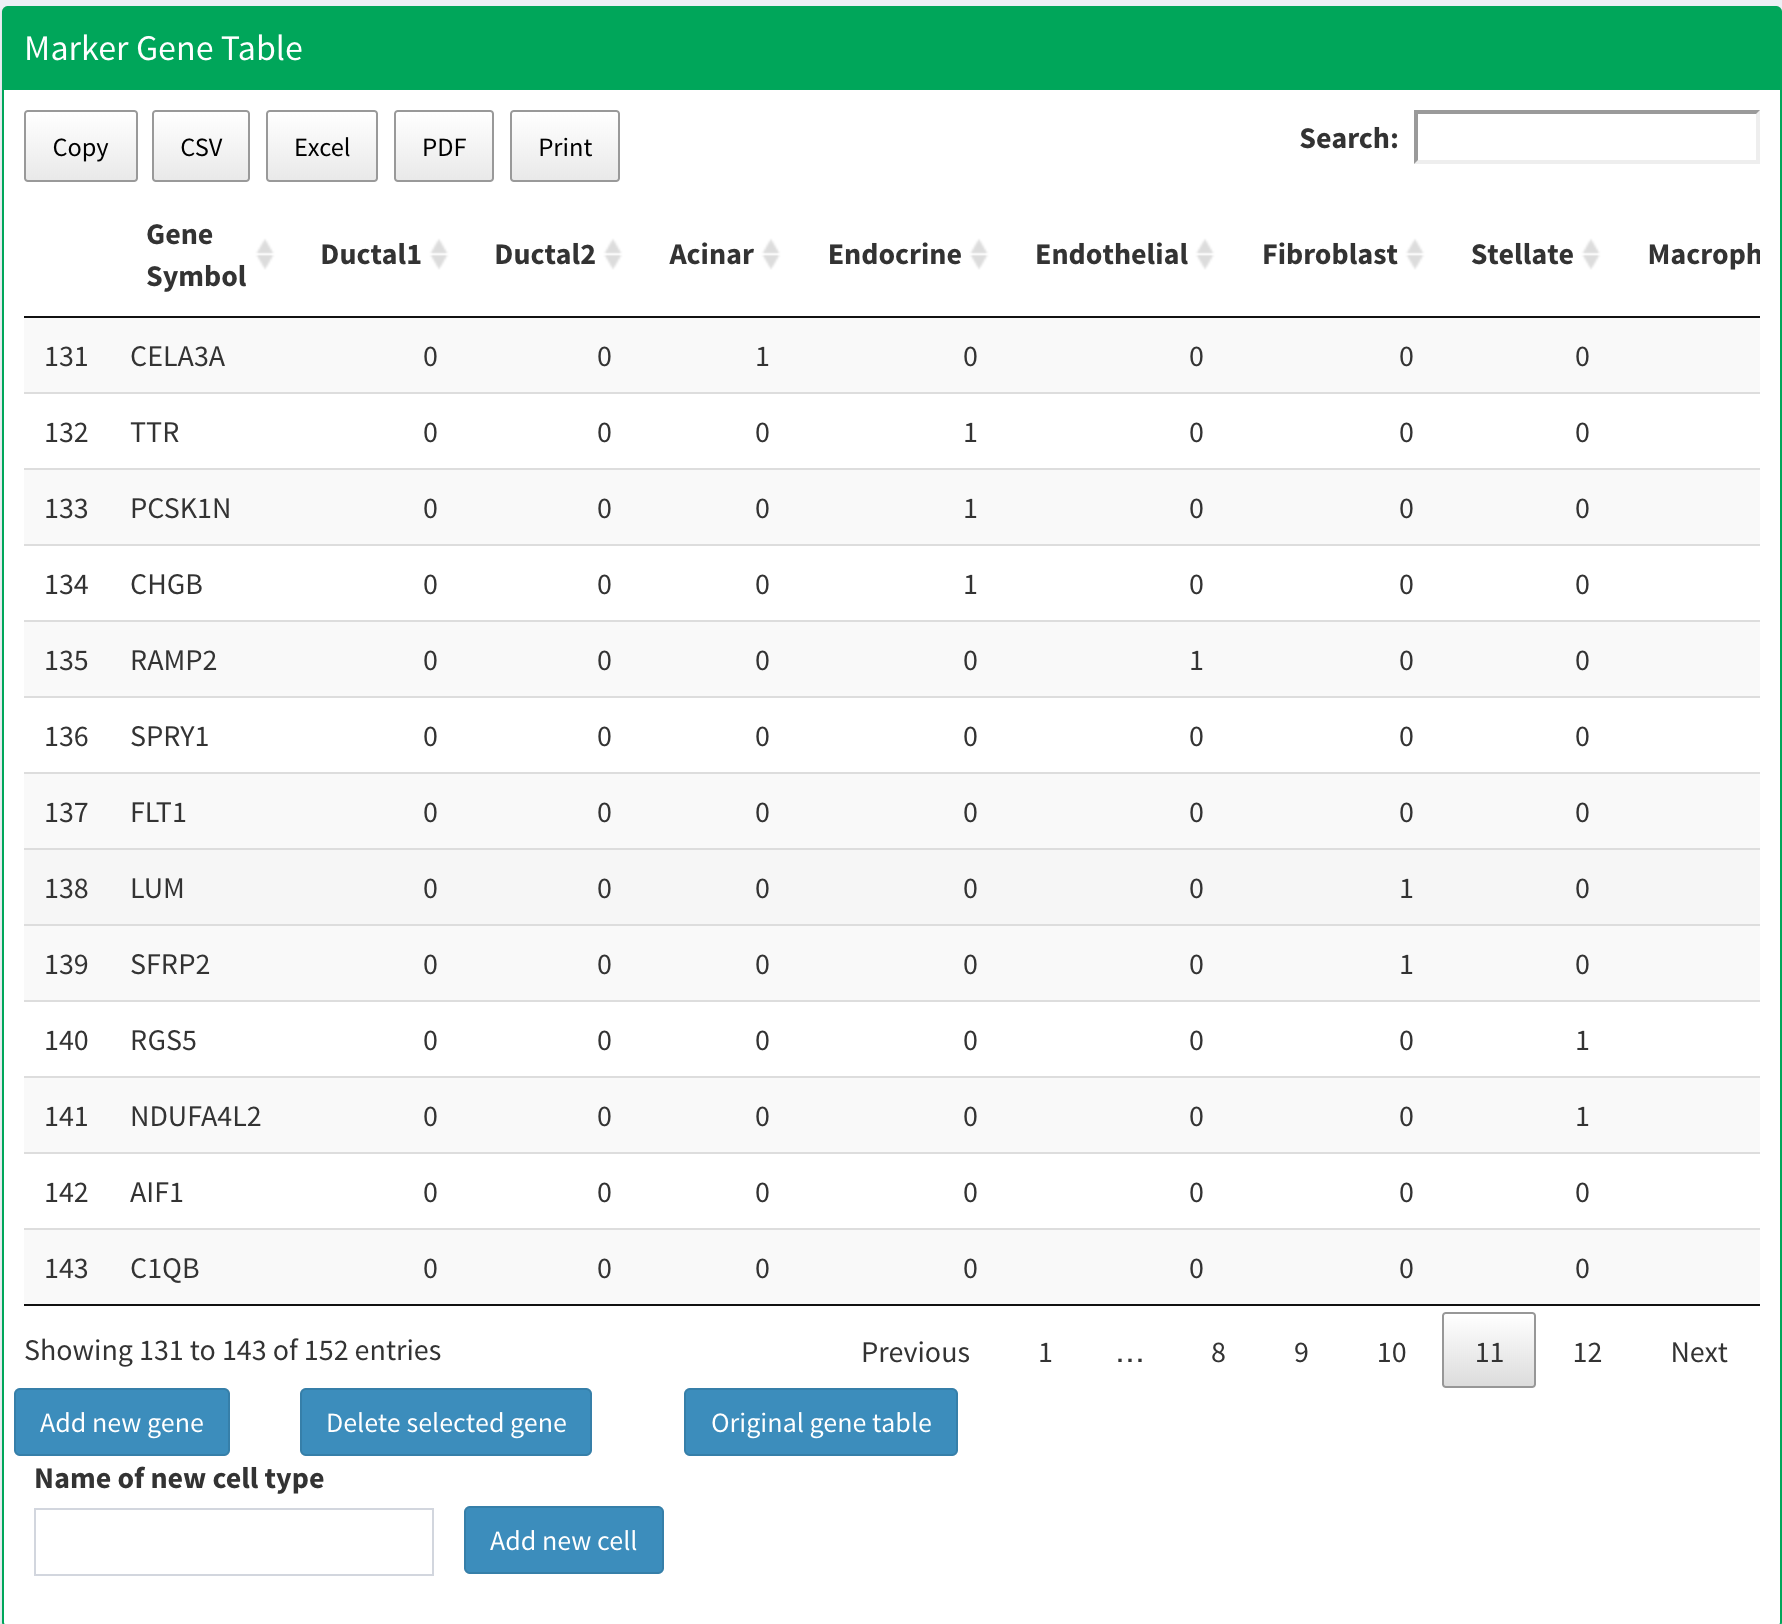
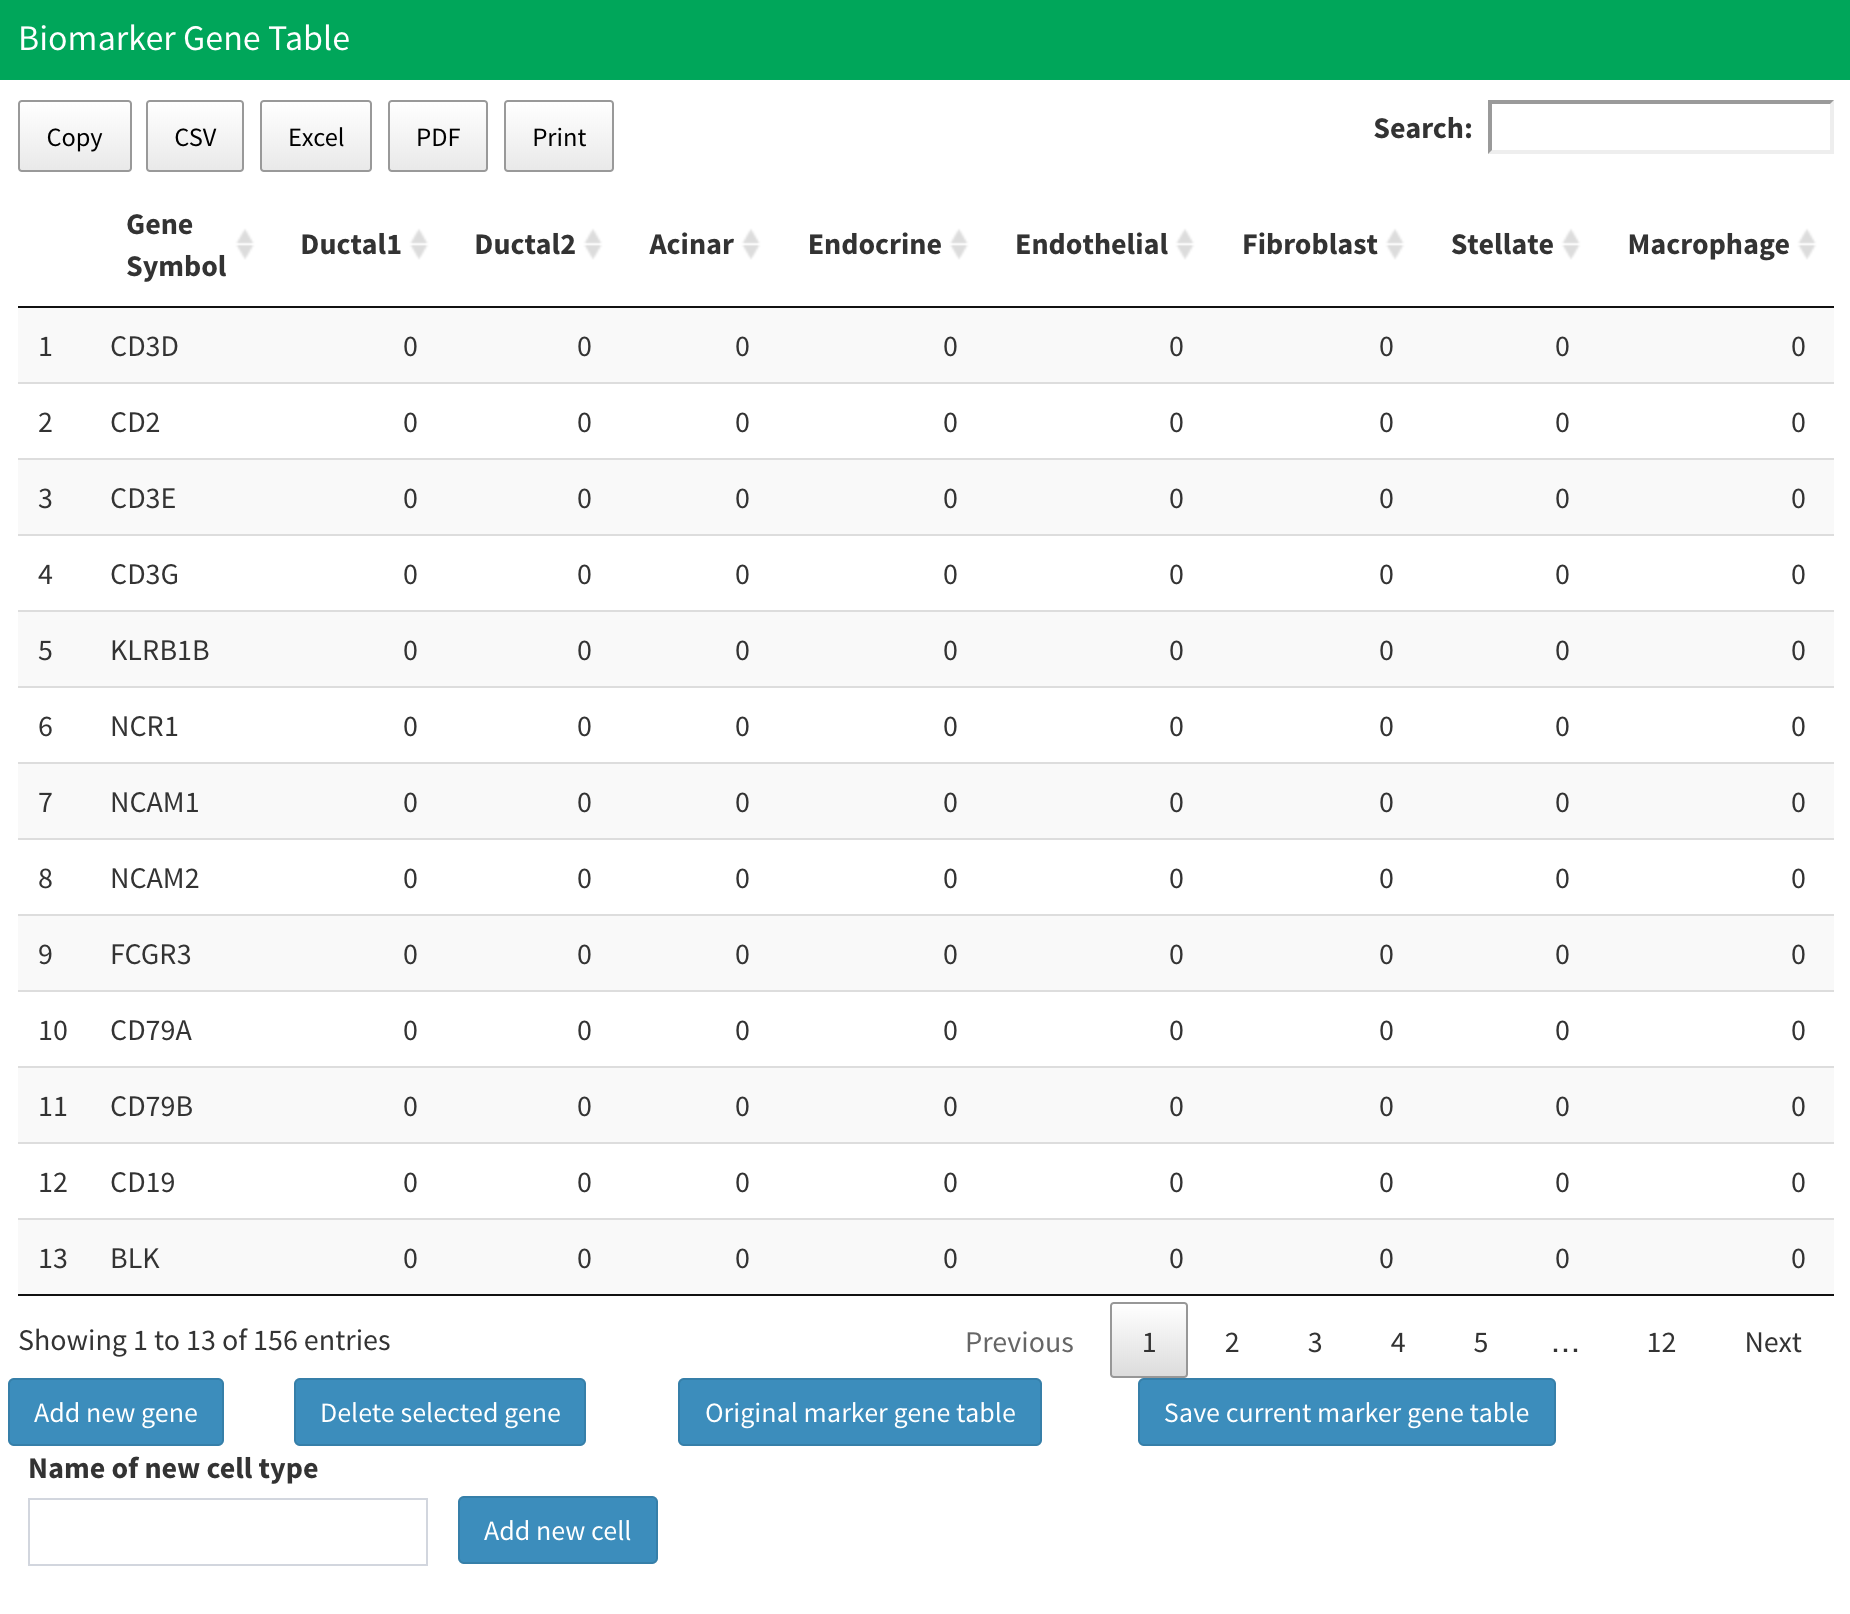
update

diff --git a/biomarkerGene.md b/biomarkerGene.md
@@ -22,3 +22,5 @@ You can see the detailed gene list for cell type by clicking the bubble in the p
 
 Each column represents a cell type and each row represents a gene. If the value is 1, this gene is a marker of this cell type. Meanwhile, if you have your own marker gene, you can click the blue button "Add new gene" to add a new marker gene. Once you click the button, you can find the new row in the last page with the gene symbol as "newGene", you can then edit the name and change the value from 0 to 1 in the corresponding cell type in the table directly. If you want to add a new cell type, you need to first enter the name of cell type in the text input frame and then click the button "Add new cell". Then you can scroll to the right of table and find your new cell type column. Notice that currently we don't support reloading edited marker gene information, which means if you want use your own data, you need add it every time you open the application. You can also delete or retrieve original marker gene tables by clicking the "Delete selected gene" or the "Original gene table" button, respectively.
 
+You can save and use modified marker gene table in the next time. To do that, after you modified table, click blue button "Save current marker gene table", the modified marker gene table will be saved to working directory within file `markerGeneTable.RData`. Next time, whenever you set the working directory, the saved marker gene table will be loaded in to sc2MeNetDrug automatically. Notice that you need to first set appropriate working directory before you save it.
+

diff --git a/data.md b/data.md
@@ -19,6 +19,8 @@ To set a working directory, first click the grey button "Select Working Director
 
 Then, the above interface should be displayed and you can click the directory you want to choose on the left side. After you choose a directory, click "Select". Finally, click the blue button "Set Working Directory" to change the working directory in the application. Once you see the directory you choose displayed in application, you have successfully set the directory. Notice that after you set or reset the directory, all the previous data and results loaded in the application will be unloaded and the whole application will be reinitialized. 
 
+In docker version, the docker environment will be show in default. But you can find the mount directory of you local computer in the directory list once you run the docker version with local directory mounting. For more information, please see [docker installation](./installation.md)
+
 ## Upload Data
 
  After you select a working directory, you can upload your data. Currently, we accept RDS and csv files. If you don't have cell annotation results, you should upload your data in the "Upstream analysis" part. RNA-seq read count data should be a dataframe with each row representing each gene and each column representing each cell. The row name of the dataframe should be the gene symbol. If you have a column name for your dataset, you should check the "Header" checkbox below "Choose your group or design file". Notice that we only accept files with sizes less than 5GB.
